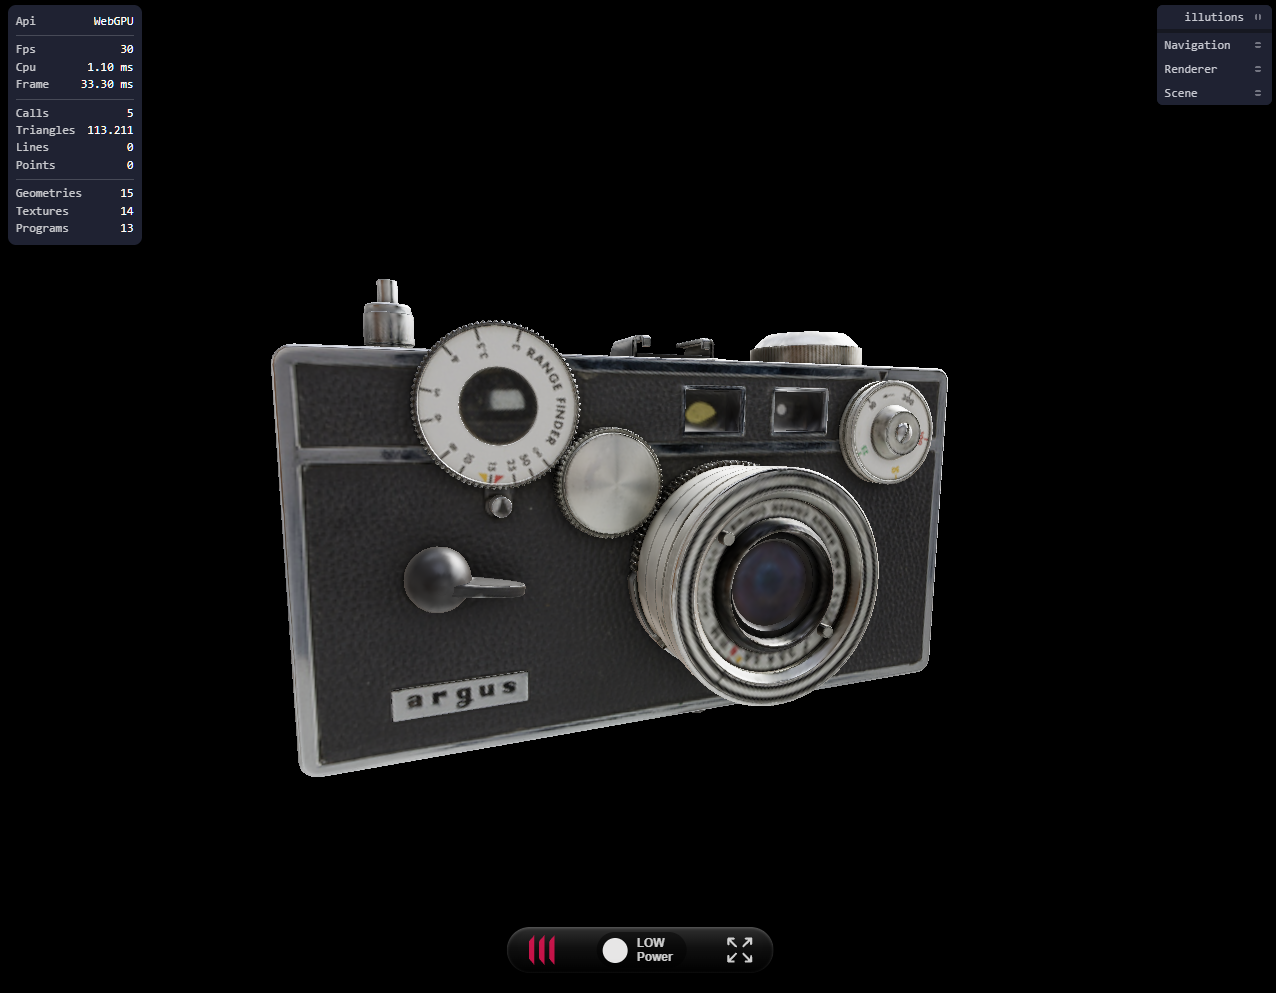
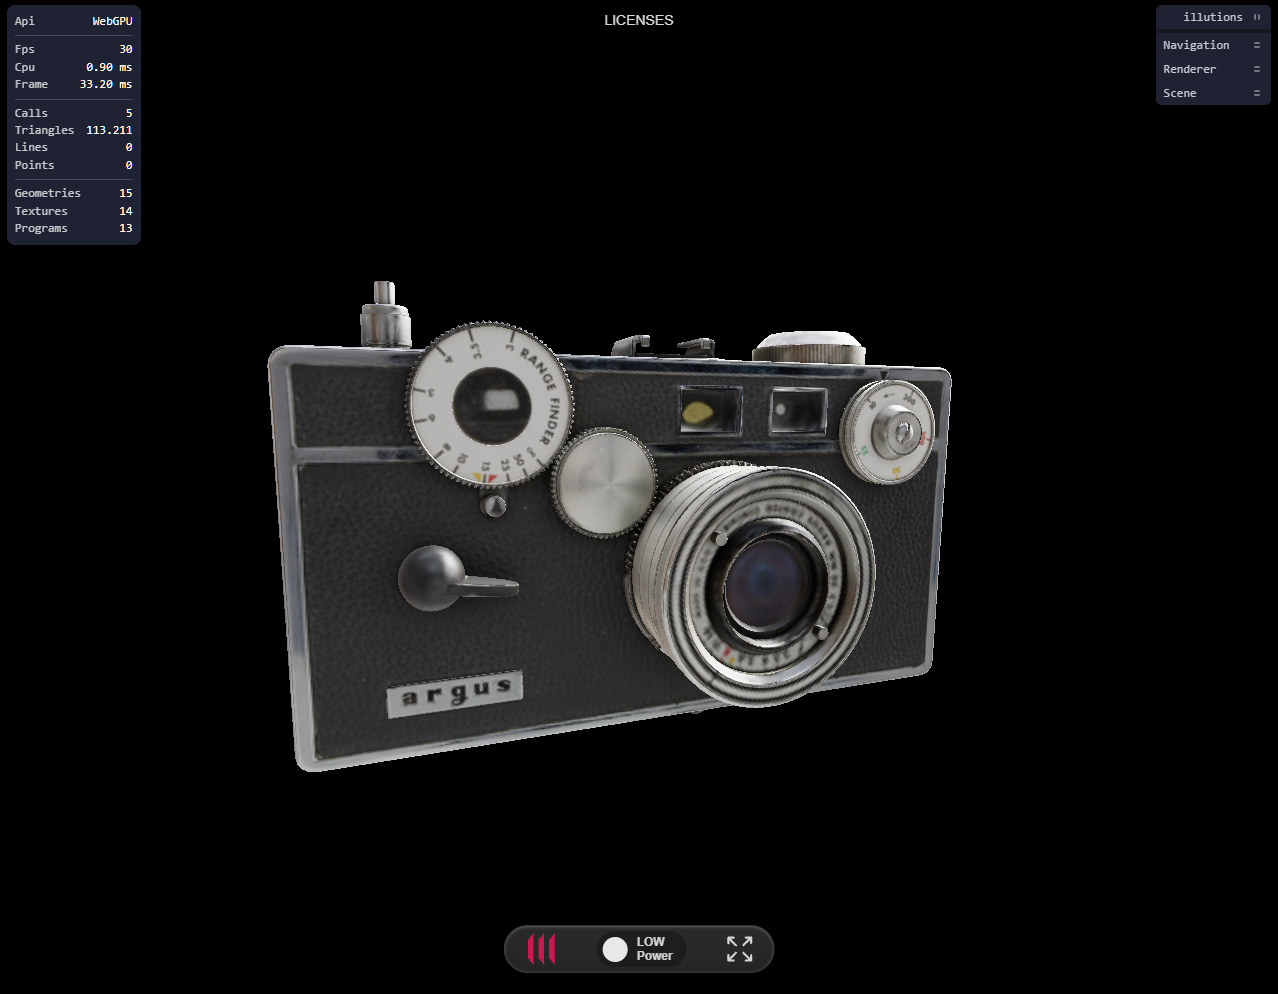
Update to Illutions Engine 0.23.0

diff --git a/style/license.css b/style/license.css
@@ -1,0 +1,18 @@
+.license-link {
+  position: fixed;
+  top: calc(env(safe-area-inset-top, 0px) + 1rem);
+  left: 50%;
+  z-index: 2;
+  transform: translateX(-50%);
+  color: #fff;
+  font-family: Arial, Helvetica, sans-serif;
+  font-size: 0.875rem;
+  line-height: 1;
+  opacity: 0.85;
+  transition: opacity 160ms ease;
+}
+
+.license-link:hover {
+  text-decoration: underline;
+  opacity: 1;
+}

diff --git a/src/index.ts b/src/index.ts
@@ -1,5 +1,9 @@
 import { App, cfg } from 'illutions';
 
+// Show helpers
+cfg.gui.infoBox.enable = true;
+cfg.gui.inspector.enable = true;
+
 // Set cameras position
 cfg.cam.position = { x: -2.25, y: 0.25, z: 0 }
 
@@ -17,7 +21,7 @@ cfg.model.file = 'scene/orbitctrls.glb';
 
 // Set scene environment map
 cfg.envCtrls.enable = true;
-cfg.envCtrls.map = 'scene/brown_photostudio_02_1k.exr';
+cfg.envCtrls.map = ['scene/brown_photostudio_02_1k.exr'];
 
 // Set antialias
 cfg.render.params.aa = true;

diff --git a/index.html b/index.html
@@ -6,9 +6,12 @@
   <title>Orbit Controls | Illutions</title>
   <link rel="icon" type="image/png" href="layout/favicon.png">
   <link rel="stylesheet" href="style/main.css">
+  <link rel="stylesheet" href="style/license.css">
 </head>
 <body>
-  <ilu-canvas></ilu-canvas>
+  <ilu-canvas>
+    <a class="license-link" href="LICENSE_ASSETS.md" target="_blank">LICENSES</a>
+  </ilu-canvas>
   <script type="module" src="src/index.ts"></script>
 </body>
 </html>

diff --git a/vite.config.js b/vite.config.js
@@ -2,7 +2,6 @@ import { defineConfig } from 'vite';
 import dns from 'dns';
 import path from 'path';
 import { fileURLToPath } from 'url';
-import basicSsl from '@vitejs/plugin-basic-ssl';
 import viteCompression from 'vite-plugin-compression';
 import { visualizer } from 'rollup-plugin-visualizer';
 import unusedCode from 'vite-plugin-unused-code';
@@ -25,7 +24,6 @@ export default defineConfig({
   css: false,
 
   plugins: [
-    basicSsl(),
     unusedCode({
       patterns: ['src/**/*.*'],
     }),

diff --git a/README.md b/README.md
@@ -74,14 +74,11 @@ Start the development server:
 npm run dev
 ```
 
-The application is served over HTTPS at:
+The application is served over HTTP at:
 
 ```text
-https://localhost:5173
+http://localhost:5173
 ```
-
-The browser may display a warning because the development server uses a local
-self-signed certificate.
 
 ## Type checking
 
@@ -132,28 +129,9 @@ while local development continues to use the domain root `/`.
 
 ## Third-party assets
 
-Third-party assets remain subject to their respective licenses. They are not
-relicensed by this repository or by the illutions Engine license.
-
-### Argus Camera
-
-This example uses the [Argus Camera](https://sketchfab.com/3d-models/argus-camera-f9112ea4c15043ebbb24fa121ffef920)
-model published by Virtual Museums of Małopolska.
-
-The model is available under the Creative Commons CC0 1.0 Universal license.
-
-### Brown Photostudio 02
-
-This example uses the Brown Photostudio 02 HDRI from Poly Haven.
-
-- **Author:** Sergej Majboroda
-- **License:** Creative Commons CC0 1.0 Universal
-- **License URL:** https://creativecommons.org/publicdomain/zero/1.0/
-- **Source:** https://polyhaven.com/a/brown_photostudio_02
-- **Changes:** No changes made. The HDRI is used as the scene environment.
-
-CC0 permits copying, modification, redistribution, and commercial use without
-requiring attribution. The source is listed here for transparency and credit.
+Third-party assets remain subject to their respective licenses. See
+[Asset Licenses](LICENSE_ASSETS.md) for authors, sources, license terms,
+and bundled-file details.
 
 ## Project structure
 

diff --git a/LICENSE_ASSETS.md b/LICENSE_ASSETS.md
@@ -1,0 +1,29 @@
+# Asset Licenses
+
+The following third-party assets remain subject to their original licenses.
+Their sources and applicable license terms are documented below.
+
+The Blender scene in `public/scene/orbitctrls.blend` and the combined scene
+export in `public/scene/orbitctrls.glb` were created and assembled for this
+example. These files incorporate the third-party 3D model listed below. The
+embedded asset retains its original license.
+
+## Argus Camera
+
+- **Title:** Argus Camera
+- **Creator:** Virtual Museums of Małopolska
+- **License:** Creative Commons CC0 1.0 Universal
+- **License URL:** https://creativecommons.org/publicdomain/zero/1.0/
+- **Source:** https://sketchfab.com/3d-models/argus-camera-f9112ea4c15043ebbb24fa121ffef920
+- **Bundled use:** Included in `public/scene/orbitctrls.blend` and `public/scene/orbitctrls.glb`.
+- **Changes:** Imported and arranged in the Blender scene and included in the combined GLB scene export.
+
+## Brown Photostudio 02
+
+- **Title:** Brown Photostudio 02
+- **Creator:** Sergej Majboroda
+- **License:** Creative Commons CC0 1.0 Universal
+- **License URL:** https://creativecommons.org/publicdomain/zero/1.0/
+- **Source:** https://polyhaven.com/a/brown_photostudio_02
+- **Bundled file:** `public/scene/brown_photostudio_02_1k.exr`
+- **Changes:** The 1K EXR version is used as the scene environment.

diff --git a/LICENSE.md b/LICENSE.md
@@ -22,15 +22,17 @@ relicense:
 - illutions-provided build tooling, including build.js;
 - license files, license tokens, or other files in the license/ directory;
 - illutions names, logos, trademarks, or other branding; or
-- third-party software, models, environment maps, images, or other assets.
+- third-party software, models, environment maps, images, audio recordings, or
+  other assets.
 
 The illutions Engine and illutions-provided build tooling are proprietary
 software and are licensed separately under the terms provided with the
 illutions package.
 
 Third-party materials remain subject to their respective licenses. Applicable
-notices and sources are listed in README.md and, for bundled dependencies, in
-dist/licenses.md when a production build is created.
+asset notices and sources are listed in
+[LICENSE_ASSETS.md](LICENSE_ASSETS.md). Bundled software dependency
+licenses are generated in dist/licenses.md during production builds.
 
 3. No Warranty
 